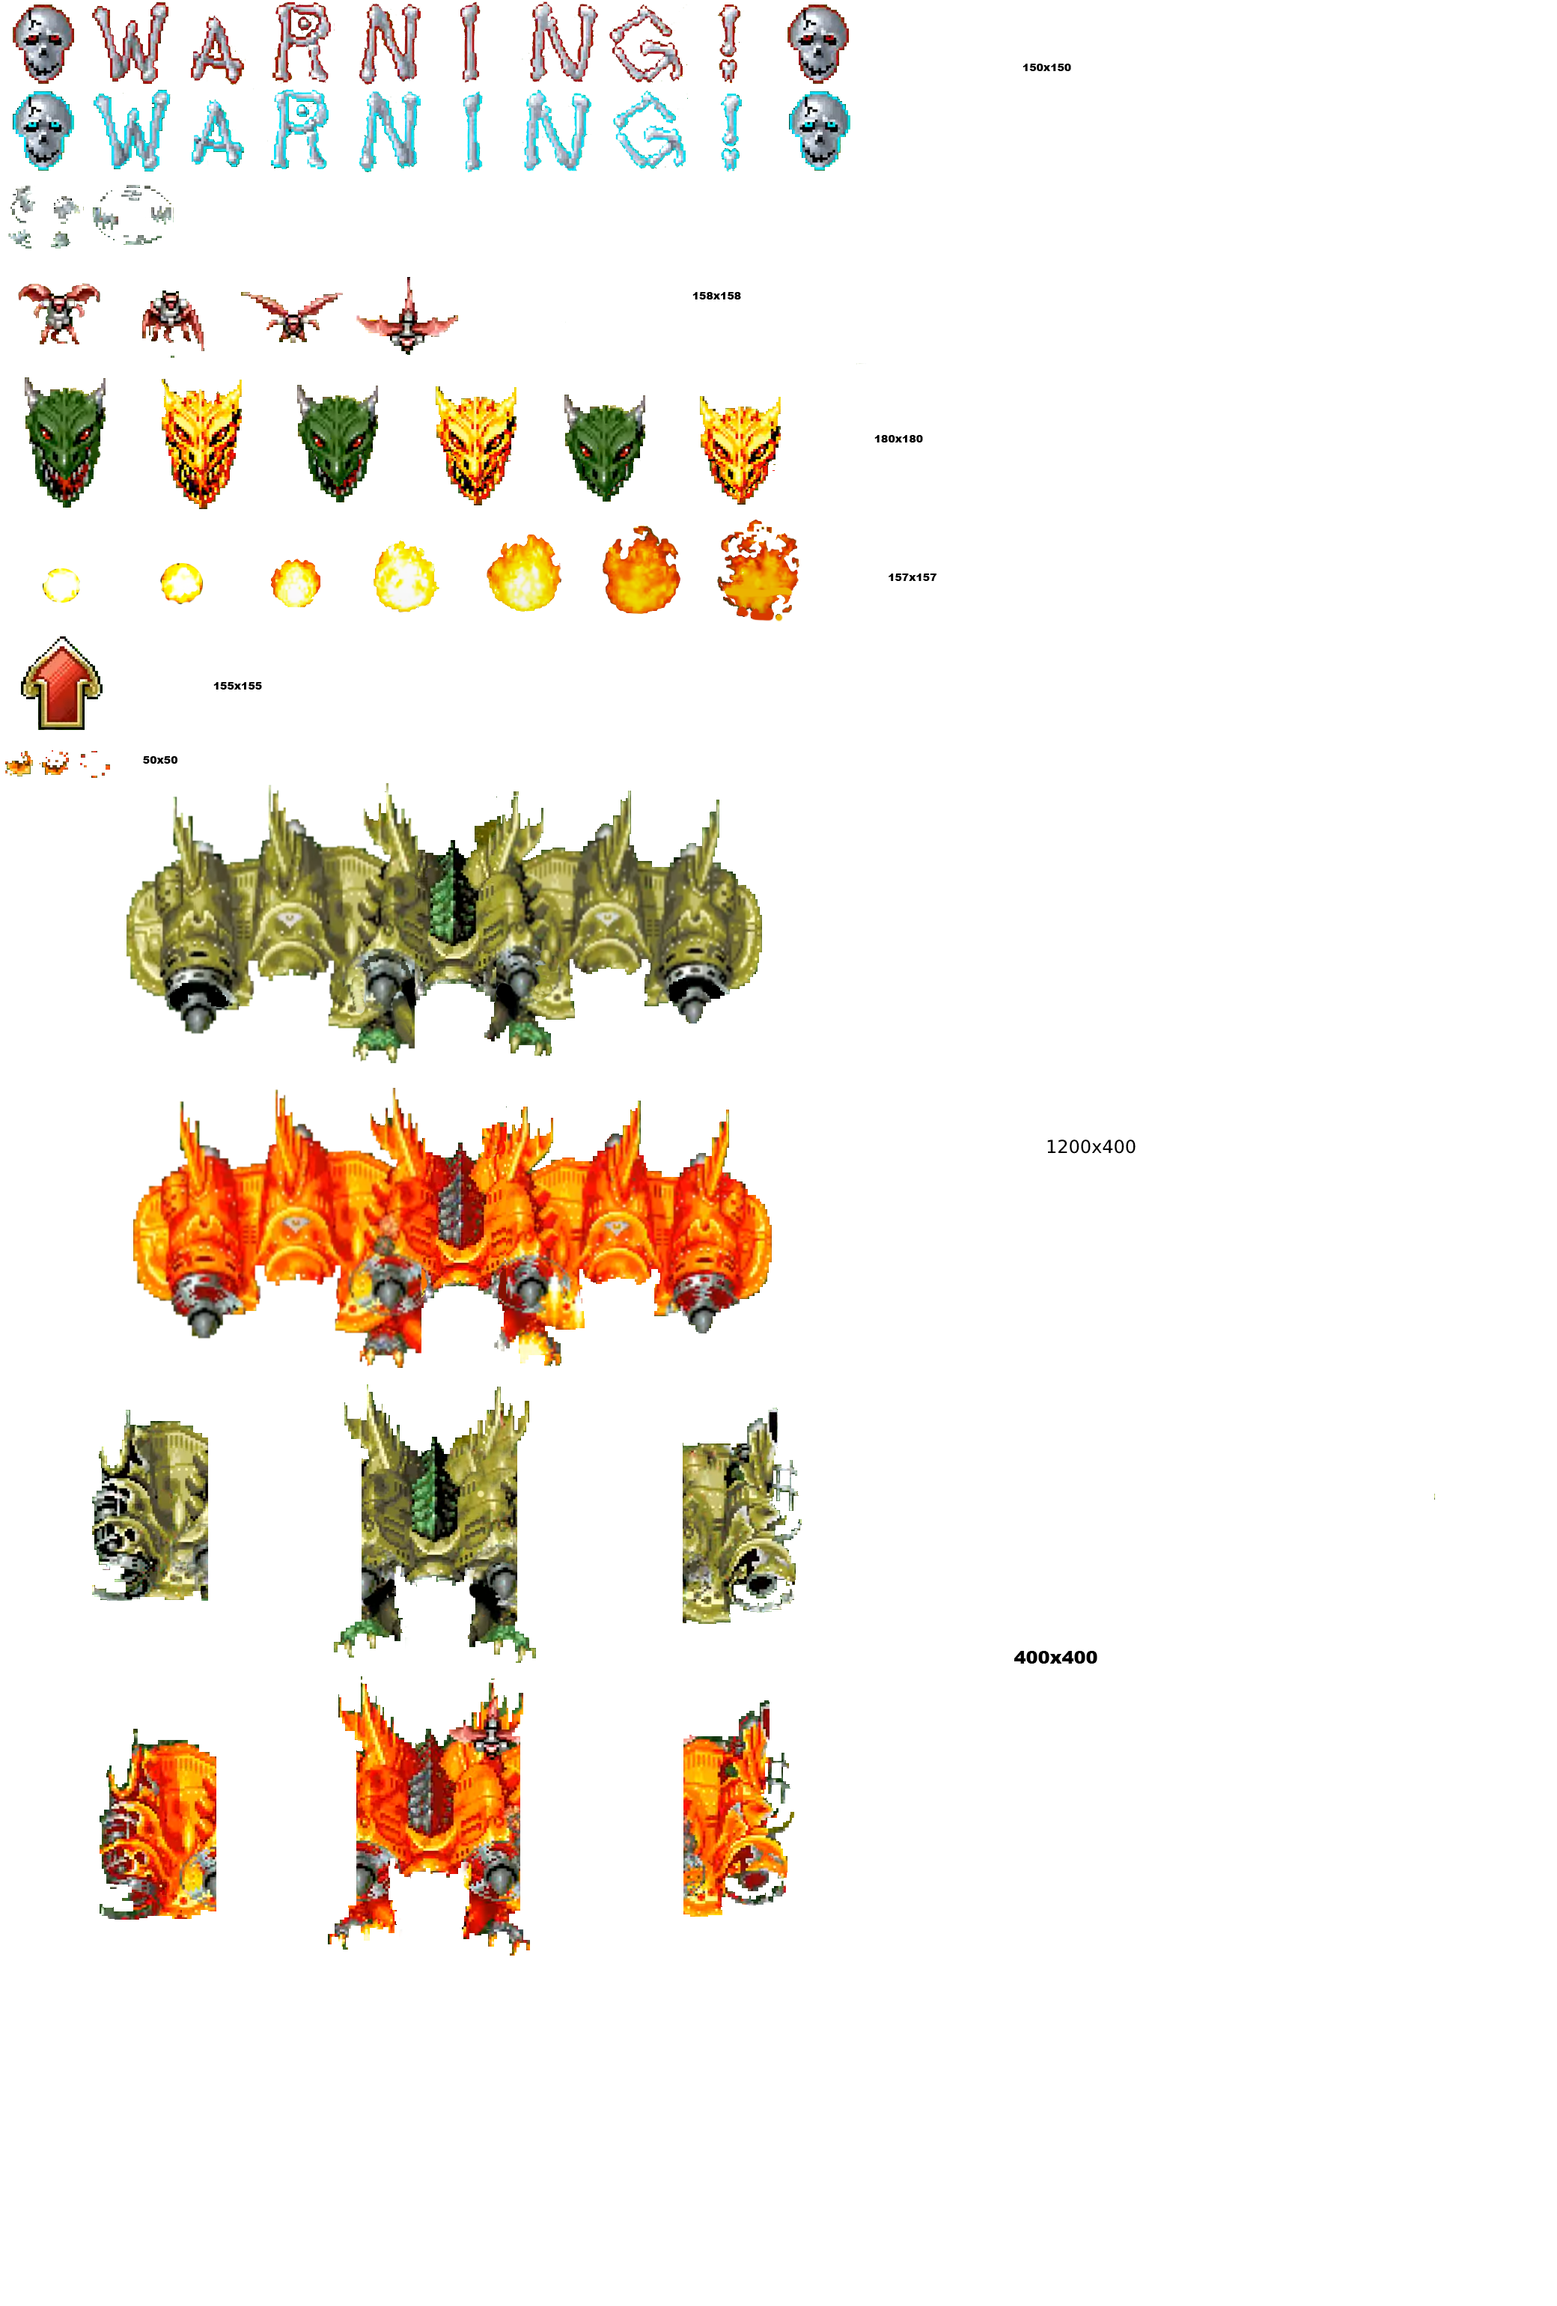
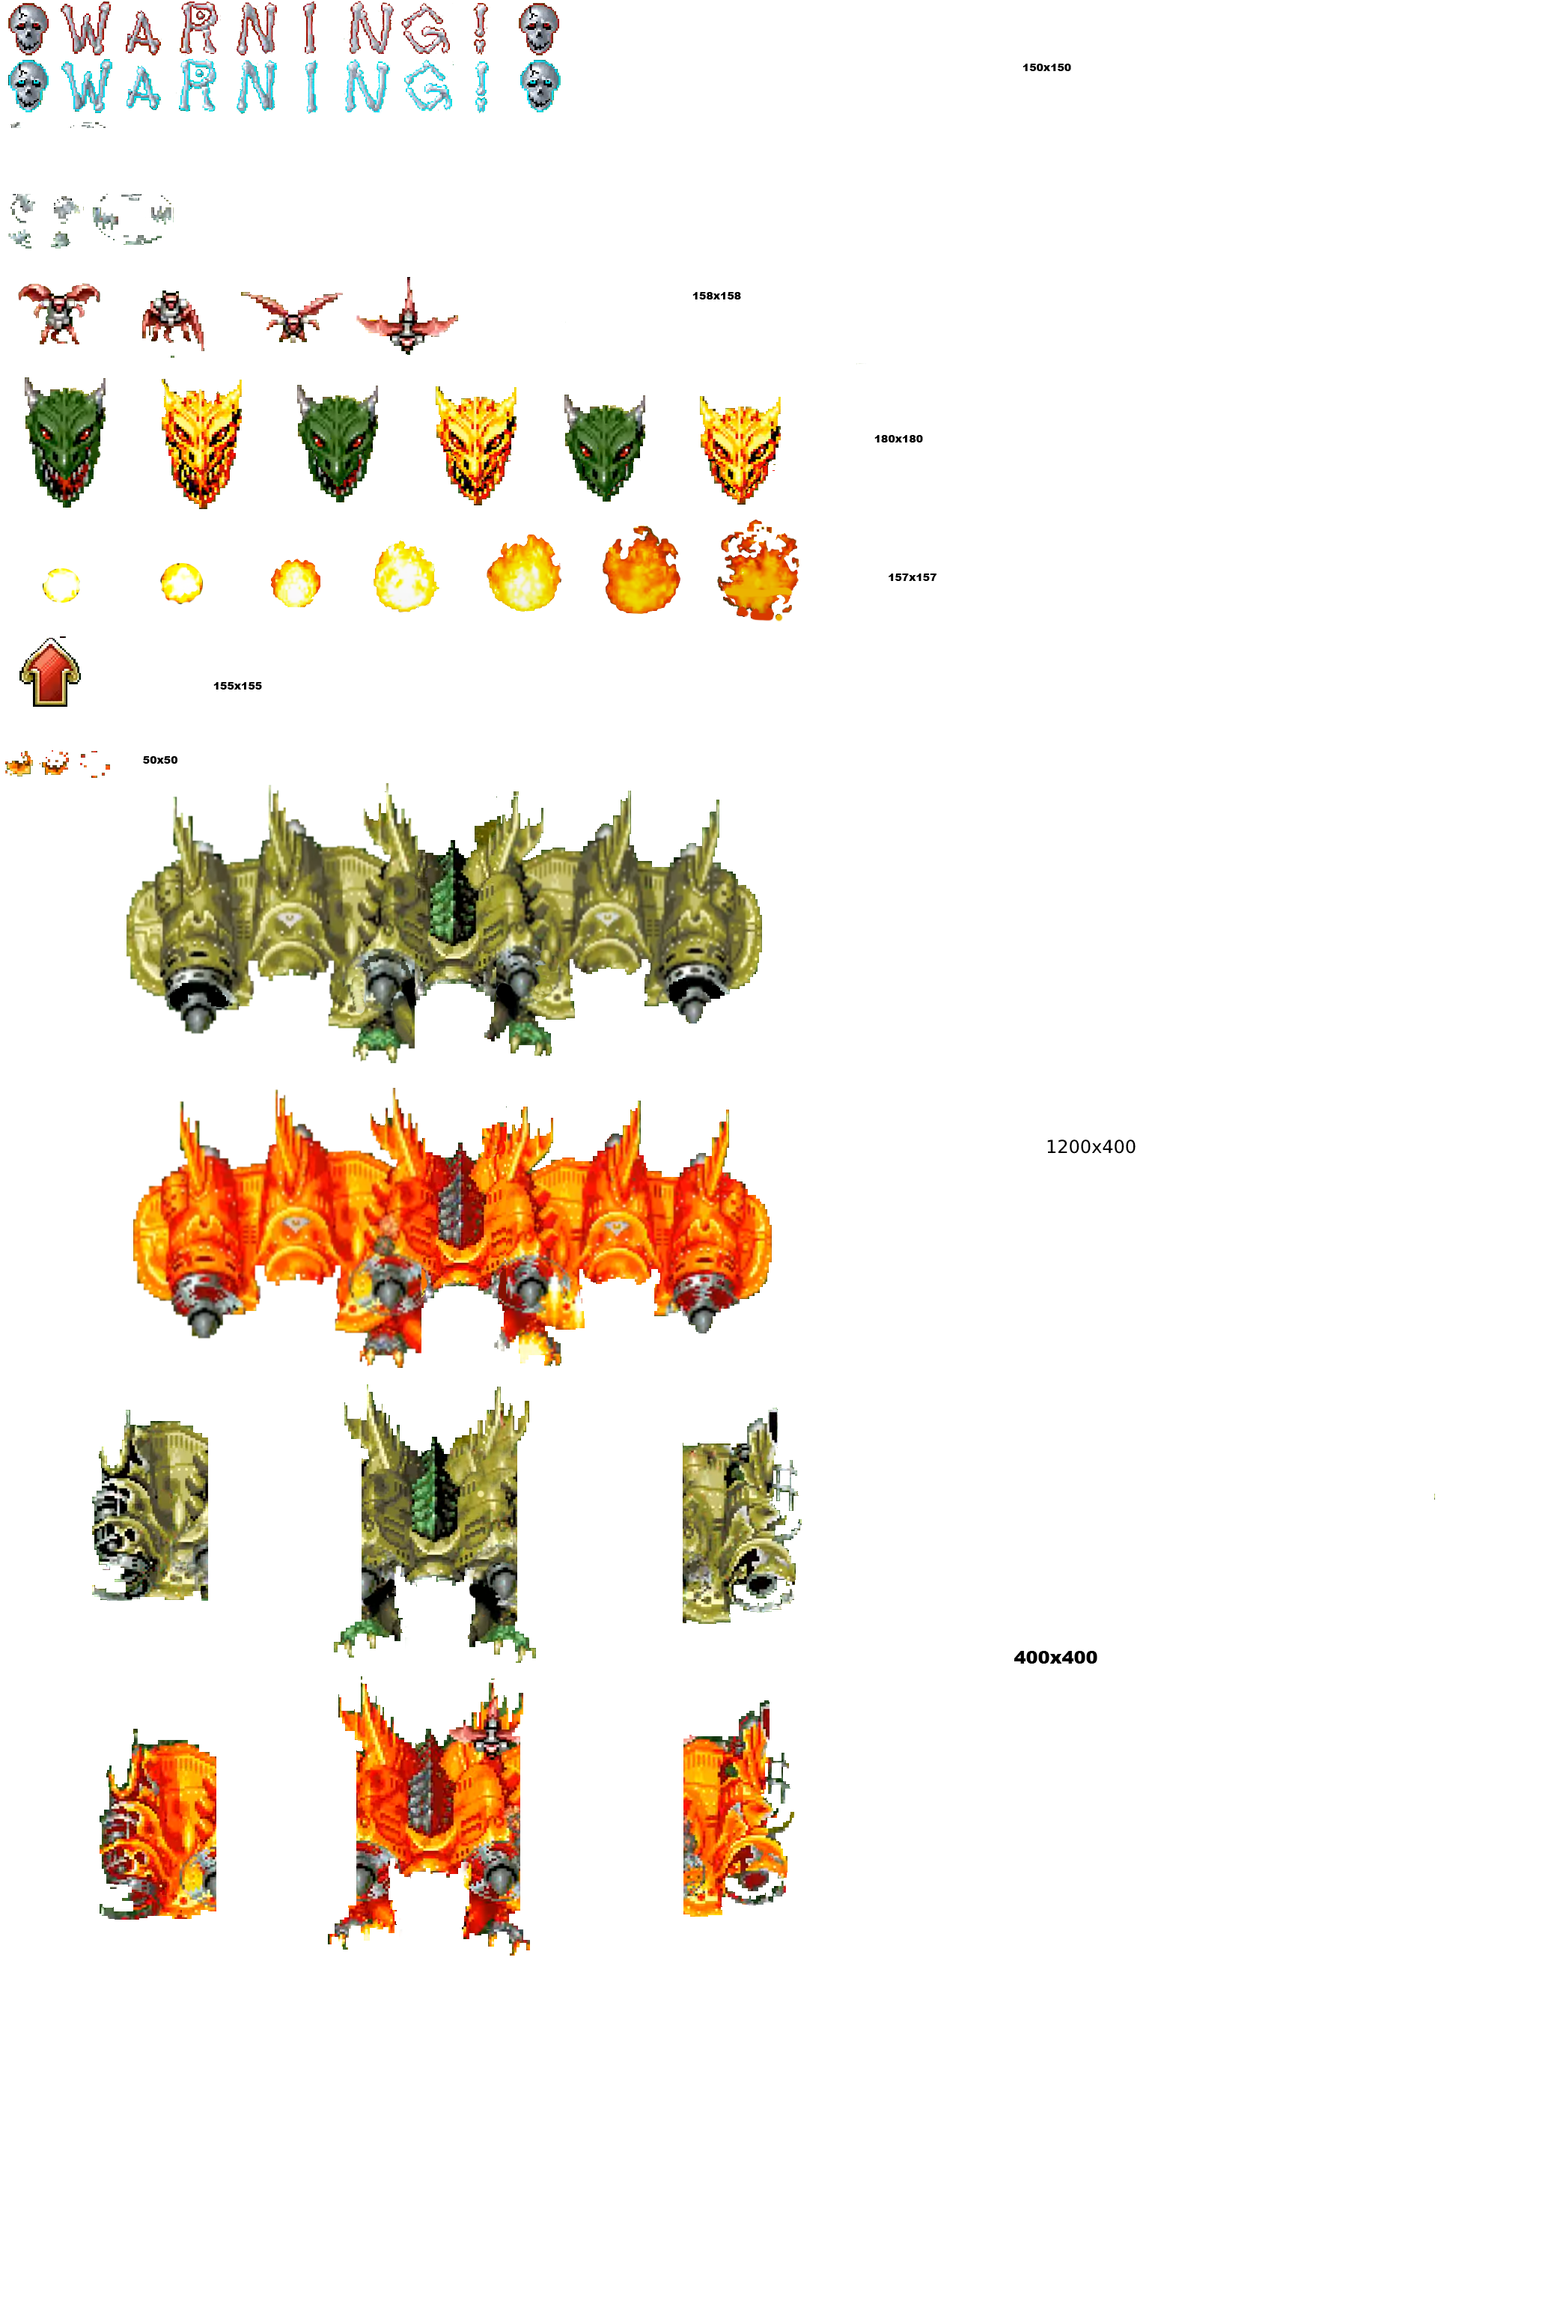
Warning
-Correcion de tamaño del sprite
-Aññadido mensaje warning

Changed region(s): [[0.0, 0.0, 0.5625, 0.0935], [0.0, 0.2805, 0.0625, 0.3429]]

diff --git a/Sorcer striker/Sorcer striker/Entities/Enemies/Enemy_WarR.cpp b/Sorcer striker/Sorcer striker/Entities/Enemies/Enemy_WarR.cpp
@@ -1,0 +1,49 @@
+#include "Enemy_WarR.h"
+
+#include "../../Application/Application.h"
+#include "../../Modules/Core/ModuleCollisions.h"
+#include "../../Modules/Gameplay/ModuleEnemies.h"
+#include "../../Application/FileNames.h"
+#include "../../Modules/Core/ModuleRender.h"
+#include"../../Modules/Core/ModuleTextures.h"
+
+
+Enemy_WarnR::Enemy_WarnR(int x, int y) : Enemy(x, y) {
+	texture = App->textures->Load(FI_spriteEnemy_boss.c_str());
+
+	blue.PushBack({ 314, 0, 484, 77 });
+	blue.PushBack({ 314, 75, 484, 77 });
+	blue.speed = 0.1f;
+	currentAnim = &blue;
+
+
+	// Path 1
+	pathchest.PushBack({ -2.0f, -8.0f }, 10);
+	pathchest.PushBack({ -4.0f, -8.0f }, 10);
+	pathchest.PushBack({ -6.0f, -8.0f }, 10);
+	pathchest.PushBack({ -8.0f, -8.0f }, 10);
+	pathchest.PushBack({ 0.0f, -8.0f }, 100);
+	pathchest.PushBack({ 25.0f, -8.0f }, 10);
+	pathchest.PushBack({ 50.0f, -8.0f }, 10);
+	pathchest.PushBack({ 75.0f, -8.0f }, 10);
+	pathchest.PushBack({ 100.0f, -8.0f }, 10);
+
+	currentPath = &pathchest;
+
+
+}
+
+void Enemy_WarnR::Update() {
+
+	pathchest.Update();
+	position = spawnPos + currentPath->GetRelativePosition();
+
+	// Call to the base class. It must be called at the end
+	// It will update the collider depending on the position 
+	Enemy::Update();
+
+}
+
+void Enemy_WarnR::OnCollision(Collider* c1) {
+}
+

diff --git a/Sorcer striker/Sorcer striker/Entities/Enemies/Enemy_WarnL.cpp b/Sorcer striker/Sorcer striker/Entities/Enemies/Enemy_WarnL.cpp
@@ -1,0 +1,48 @@
+#include "Enemy_WarnL.h"
+
+#include "../../Application/Application.h"
+#include "../../Modules/Core/ModuleCollisions.h"
+#include "../../Modules/Gameplay/ModuleEnemies.h"
+#include "../../Application/FileNames.h"
+#include "../../Modules/Core/ModuleRender.h"
+#include"../../Modules/Core/ModuleTextures.h"
+
+
+Enemy_WarnL::Enemy_WarnL(int x, int y) : Enemy(x, y) {
+	texture = App->textures->Load(FI_spriteEnemy_boss.c_str());
+
+	blue.PushBack({ 0, 0, 296, 75 });
+	blue.PushBack({ 0, 80, 296, 75 });
+	blue.speed = 0.1f;
+	currentAnim = &blue;
+
+
+	// Path 1
+	pathchest.PushBack({ 2.0f, -8.0f }, 10);
+	pathchest.PushBack({ 4.0f, -8.0f }, 10);
+	pathchest.PushBack({ 6.0f, -8.0f }, 10);
+	pathchest.PushBack({ 8.0f, -8.0f }, 10);
+	pathchest.PushBack({ 0.0f, -8.0f }, 100);
+	pathchest.PushBack({ -25.0f, -8.0f }, 10);
+	pathchest.PushBack({ -50.0f, -8.0f }, 10);
+	pathchest.PushBack({ -75.0f, -8.0f }, 10);
+	pathchest.PushBack({ -100.0f, -8.0f }, 10);
+
+	currentPath = &pathchest;
+
+
+}
+
+void Enemy_WarnL::Update() {
+
+	pathchest.Update();
+	position = spawnPos + currentPath->GetRelativePosition();
+
+	// Call to the base class. It must be called at the end
+	// It will update the collider depending on the position 
+	Enemy::Update();
+
+}
+
+void Enemy_WarnL::OnCollision(Collider* c1) {
+}

diff --git a/Sorcer striker/Sorcer striker/Entities/Enemies/Enemy_Flecha.cpp b/Sorcer striker/Sorcer striker/Entities/Enemies/Enemy_Flecha.cpp
@@ -1,0 +1,48 @@
+#include "Enemy_Flecha.h"
+
+#include "../../Application/Application.h"
+#include "../../Modules/Core/ModuleCollisions.h"
+#include "../../Modules/Gameplay/ModuleEnemies.h"
+#include "../../Application/FileNames.h"
+#include "../../Modules/Core/ModuleRender.h"
+#include"../../Modules/Core/ModuleTextures.h"
+
+
+Enemy_Flecha::Enemy_Flecha(int x, int y) : Enemy(x, y) {
+	texture = App->textures->Load(FI_spriteEnemy_boss.c_str());
+
+	blue.PushBack({ 26, 852, 82, 92 });
+	blue.speed = 0.1f;
+	currentAnim = &blue;
+
+
+	// Path 1
+	pathchest.PushBack({ -2.0f, -8.0f }, 10);
+	pathchest.PushBack({ -4.0f, -8.0f }, 10);
+	pathchest.PushBack({ -6.0f, -8.0f }, 10);
+	pathchest.PushBack({ -8.0f, -8.0f }, 10);
+	pathchest.PushBack({ 0.0f, -8.0f }, 100);
+	pathchest.PushBack({ 25.0f, -8.0f }, 10);
+	pathchest.PushBack({ 50.0f, -8.0f }, 10);
+	pathchest.PushBack({ 75.0f, -8.0f }, 10);
+	pathchest.PushBack({ 100.0f, -8.0f }, 10);
+
+	currentPath = &pathchest;
+
+
+}
+
+void Enemy_Flecha::Update() {
+
+	pathchest.Update();
+	position = spawnPos + currentPath->GetRelativePosition();
+
+	// Call to the base class. It must be called at the end
+	// It will update the collider depending on the position 
+	Enemy::Update();
+
+}
+
+void Enemy_Flecha::OnCollision(Collider* c1) {
+}
+

diff --git a/Sorcer striker/Sorcer striker/Modules/Gameplay/ModuleEnemies.cpp b/Sorcer striker/Sorcer striker/Modules/Gameplay/ModuleEnemies.cpp
@@ -30,6 +30,9 @@
 #include "../../Entities/Enemies/Enemy_Stagename.h"
 #include "../../Entities/Enemies/Enemy_Num1.h"
 #include "../../Entities/Enemies/Enemy_Flag.h"
+#include "../../Entities/Enemies/Enemy_WarnL.h"
+#include "../../Entities/Enemies/Enemy_WarR.h"
+#include "../../Entities/Enemies/Enemy_Flecha.h"
 
 
 #define SPAWN_MARGIN 100
@@ -186,6 +189,10 @@ void ModuleEnemies::SpawnEnemy(const EnemySpawnpoint& info) {
 			case Enemy_Type::STAGE: enemies[i] = new Enemy_Stage(info.x, info.y); break;
 			case Enemy_Type::NUM1: enemies[i] = new Enemy_Num1(info.x, info.y); break;
 			case Enemy_Type::FLAG: enemies[i] = new Enemy_Flag(info.x, info.y); break;
+			//Warning
+			case Enemy_Type::WARL: enemies[i] = new Enemy_WarnL(info.x, info.y); break;
+			case Enemy_Type::WARR: enemies[i] = new Enemy_WarnR(info.x, info.y); break;
+			case Enemy_Type::FLECH: enemies[i] = new Enemy_Flecha(info.x, info.y); break;
 
 			//Enemies
 			case Enemy_Type::DRAGON: enemies[i] = new Enemy_Dragon(info.x, info.y, info.wave);

diff --git a/Sorcer striker/Sorcer striker/Modules/Gameplay/SceneLevel1.cpp b/Sorcer striker/Sorcer striker/Modules/Gameplay/SceneLevel1.cpp
@@ -1,6 +1,5 @@
 #include "SceneLevel1.h"
 
-#include "../../Application/Application.h"
 #include "../../Application/FileNames.h"
 #include "../../Modules/Core/ModuleTextures.h"
 #include "../../Modules/Core/ModuleRender.h"
@@ -10,7 +9,7 @@
 #include "../Gameplay/ModuleEnemies.h"
 #include "../Gameplay/ModulePlayer.h"
 #include "../Gameplay/SceneLevel1.h"
-
+#include "../../Application/Application.h"
 
 #include <SDL_timer.h>
 
@@ -66,7 +65,9 @@ bool SceneLevel1::Start() {
 	start_time = SDL_GetTicks();
 
 #pragma region ENEMIES
-	App->enemies->AddEnemy(Enemy_Type::FLAG, 500, -400, 1);
+	App->enemies->AddEnemy(Enemy_Type::WARL, 0, -400, 1);
+	App->enemies->AddEnemy(Enemy_Type::WARR, 0, -400, 1);
+	App->enemies->AddEnemy(Enemy_Type::FLECH, 0, -400, 1);
 	// add chest
 	//App->enemies->AddEnemy(Enemy_Type::CHESTBLUE, 200, -500, 1);
 	App->enemies->AddEnemy(Enemy_Type::ANGEL, 200, -500, 1);

diff --git a/Sorcer striker/Sorcer striker/Entities/Enemies/Enemy_Flecha.h b/Sorcer striker/Sorcer striker/Entities/Enemies/Enemy_Flecha.h
@@ -1,0 +1,39 @@
+#ifndef __ENEMY_FLECH_H__
+#define __ENEMY_FLECH_H__
+
+#include "Enemy.h"
+#include "../../Utils/Path.h"
+
+
+class Enemy_Flecha : public Enemy {
+
+public:
+	// Constructor (x y coordinates in the world)
+	// Creates animation data and the collider
+	Enemy_Flecha(int x, int y);
+
+	// The enemy is going to perform a sinusoidal movement
+	void Update() override;
+	//void Draw() override;
+
+	void OnCollision(Collider* c1);
+
+
+private: //BROWNSHIP
+	// A set of steps that define the position in the screen
+		// And an animation for each step
+	Path pathchest;
+	Path* currentPath;
+	bool activePart2 = false;
+
+	bool chestdestroy = false;
+
+
+
+	// This enemy has one sprite and one frame
+	// We are keeping it an animation for consistency with other enemies
+	Animation blue;
+	Animation pickup;
+};
+
+#endif // __ENEMY_CHESS_H__

diff --git a/Sorcer striker/Sorcer striker/Entities/Enemies/Enemy_WarnL.h b/Sorcer striker/Sorcer striker/Entities/Enemies/Enemy_WarnL.h
@@ -1,0 +1,39 @@
+#ifndef __ENEMY_WARNL_H__
+#define __ENEMY_WARNL_H__
+
+#include "Enemy.h"
+#include "../../Utils/Path.h"
+
+
+class Enemy_WarnL : public Enemy {
+
+public:
+	// Constructor (x y coordinates in the world)
+	// Creates animation data and the collider
+	Enemy_WarnL(int x, int y);
+
+	// The enemy is going to perform a sinusoidal movement
+	void Update() override;
+	//void Draw() override;
+
+	void OnCollision(Collider* c1);
+
+
+private: //BROWNSHIP
+	// A set of steps that define the position in the screen
+		// And an animation for each step
+	Path pathchest;
+	Path* currentPath;
+	bool activePart2 = false;
+
+	bool chestdestroy = false;
+
+
+
+	// This enemy has one sprite and one frame
+	// We are keeping it an animation for consistency with other enemies
+	Animation blue;
+	Animation pickup;
+};
+
+#endif // __ENEMY_CHESS_H__

diff --git a/Sorcer striker/Sorcer striker/Entities/Enemies/Enemy_WarR.h b/Sorcer striker/Sorcer striker/Entities/Enemies/Enemy_WarR.h
@@ -1,0 +1,39 @@
+#ifndef __ENEMY_WARR_H__
+#define __ENEMY_WARL_H__
+
+#include "Enemy.h"
+#include "../../Utils/Path.h"
+
+
+class Enemy_WarnR : public Enemy {
+
+public:
+	// Constructor (x y coordinates in the world)
+	// Creates animation data and the collider
+	Enemy_WarnR(int x, int y);
+
+	// The enemy is going to perform a sinusoidal movement
+	void Update() override;
+	//void Draw() override;
+
+	void OnCollision(Collider* c1);
+
+
+private: //BROWNSHIP
+	// A set of steps that define the position in the screen
+		// And an animation for each step
+	Path pathchest;
+	Path* currentPath;
+	bool activePart2 = false;
+
+	bool chestdestroy = false;
+
+
+
+	// This enemy has one sprite and one frame
+	// We are keeping it an animation for consistency with other enemies
+	Animation blue;
+	Animation pickup;
+};
+
+#endif // __ENEMY_CHESS_H__

diff --git a/Sorcer striker/Sorcer striker/Modules/Gameplay/ModuleEnemies.h b/Sorcer striker/Sorcer striker/Modules/Gameplay/ModuleEnemies.h
@@ -30,6 +30,9 @@ enum class Enemy_Type {
 	STAGE,
 	FLAG,
 	NUM1,
+	WARL,
+	WARR,
+	FLECH,
 };
 
 struct EnemySpawnpoint {
